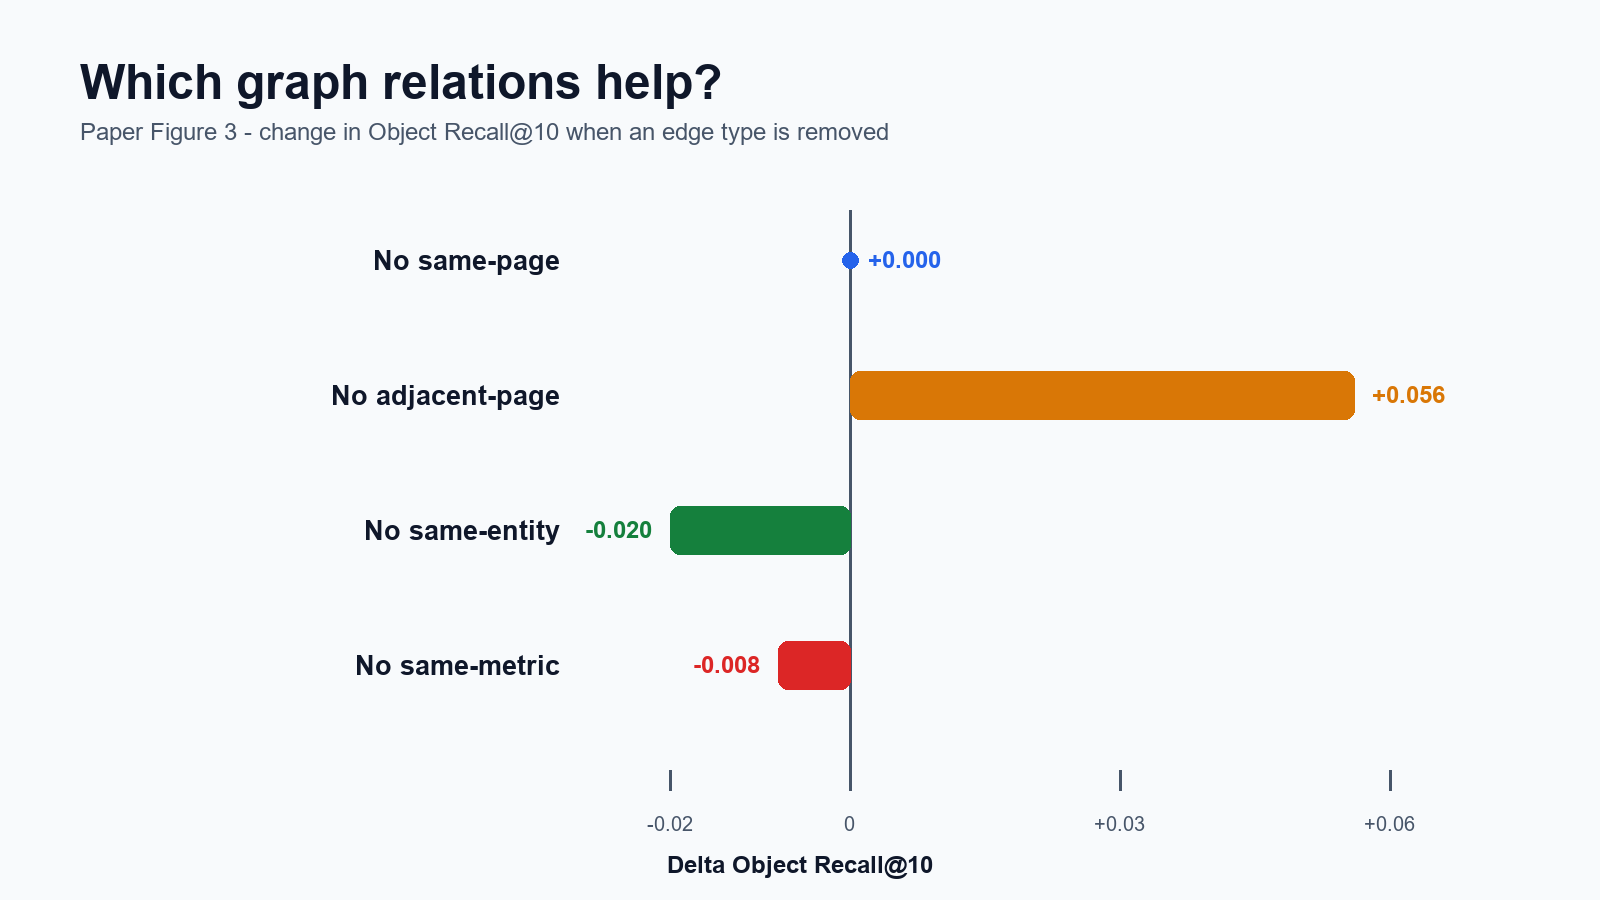
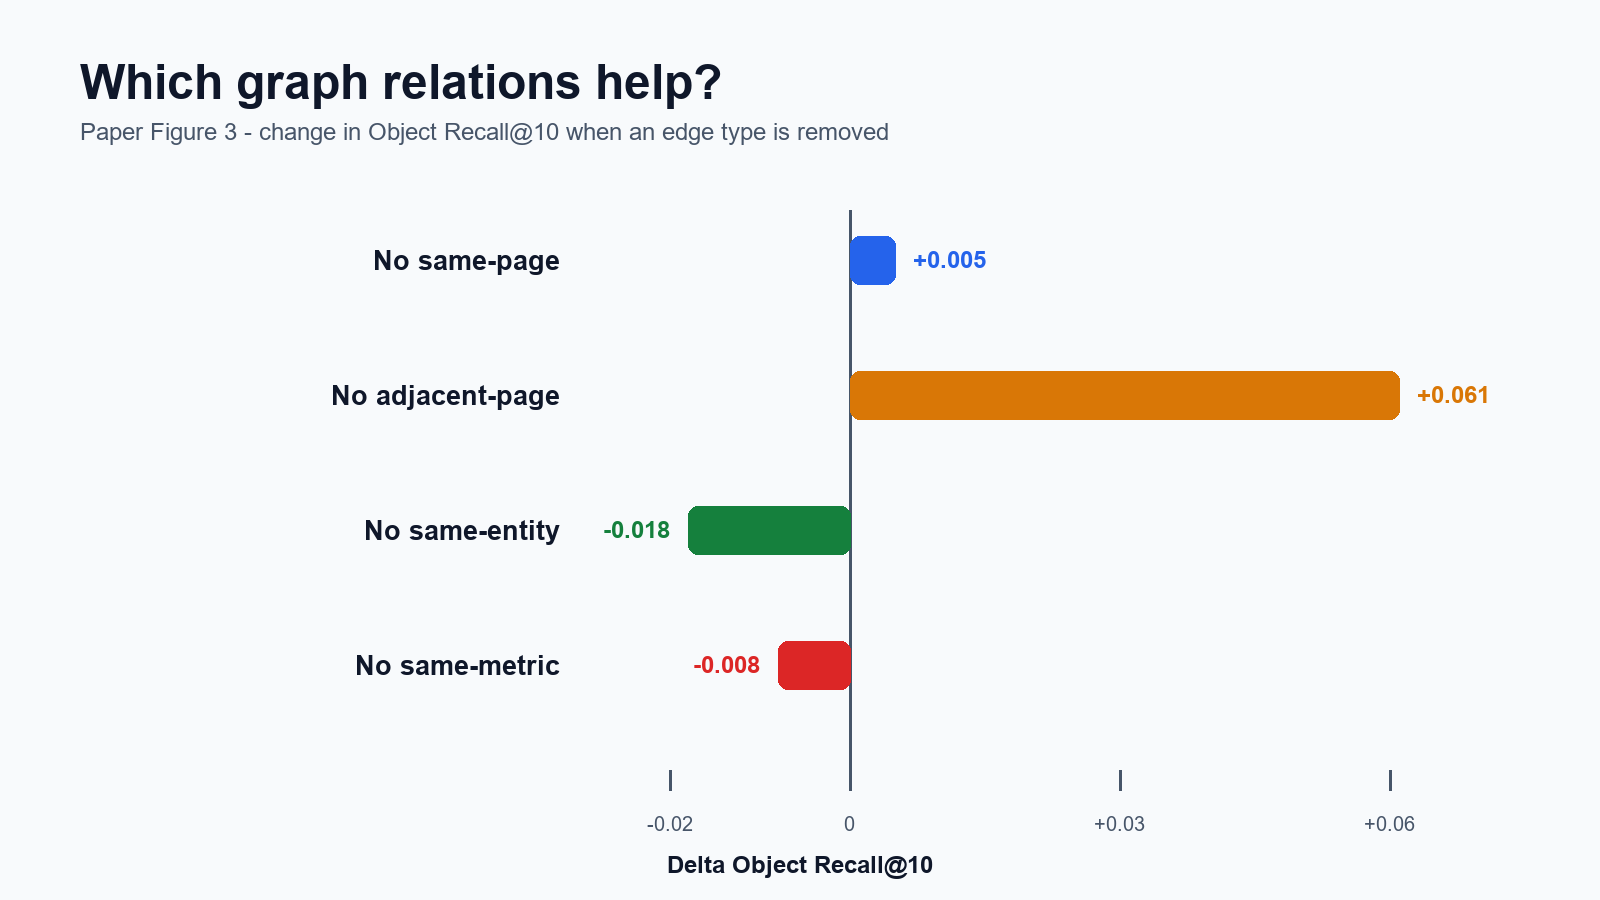
Sync revised GraphRAG results

Changed region(s): [[0.5312, 0.2489, 0.625, 0.3422], [0.8438, 0.4044, 0.9375, 0.4667], [0.375, 0.56, 0.4375, 0.6222]]

diff --git a/components/projects/structure-aware-graph-rag-research.tsx b/components/projects/structure-aware-graph-rag-research.tsx
@@ -8,9 +8,9 @@ const researchQuestions = [
 
 const fusionRows = [
   ["Hybrid E5 + rerank", ".673", ".838", ".908", ".730"],
-  ["Retained E5 + selected graph", ".673", ".858", ".905", ".737"],
+  ["Retained E5 + selected graph", ".671", ".856", ".903", ".735"],
   ["Retained E5 + graph paths", ".668", ".850", ".914", ".733"],
-  ["Retained E5 + graph + paths", ".670", ".859", ".917", ".736"],
+  ["Retained E5 + graph + paths", ".670", ".859", ".918", ".736"],
 ] as const;
 
 function SectionHeader({ eyebrow, title, description }: {
@@ -81,7 +81,7 @@ export default function StructureAwareGraphRagResearch() {
       </section>
 
       <section id="rq1">
-        <SectionHeader title="RQ1. Which Graph Connections Help?" description={<><p>The graph connects evidence through four types of relations: <strong>same-page, same-entity, same-metric, and adjacent-page</strong>. But adding more connections does not necessarily improve retrieval.</p><p className="mt-4">To understand which relations actually help, we remove one relation at a time while keeping the rest of the retrieval pipeline unchanged.</p></>} />
+        <SectionHeader title="RQ1. Which Graph Connections Help?" description={<><p>The full graph evaluates <strong>same-page, same-entity, same-metric, and adjacent-page</strong> relations. The selected graph used in downstream experiments excludes adjacent-page links.</p><p className="mt-4">To understand which relations actually help, we remove one relation at a time while keeping the rest of the retrieval pipeline unchanged.</p></>} />
         <PaperFigure src="/projects/graph-rag-evidence/paper-graph-schema.png" alt="Typed metadata evidence graph schema" height={1050} caption="The graph connects evidence based on document structure, shared entities, and financial metrics." />
         <div className="mt-8">
           <PaperFigure src="/projects/graph-rag-evidence/paper-edge-ablation.png" alt="Edge-type ablation for Object Recall at 10" height={900} caption="Positive values mean retrieval improves when a relation is removed." />
@@ -97,8 +97,8 @@ export default function StructureAwareGraphRagResearch() {
             <table className="w-full min-w-[480px] text-left text-sm">
               <thead className="bg-blue-700 text-white"><tr><th scope="col" className="px-5 py-4 font-semibold">Metric</th><th scope="col" className="px-5 py-4 text-right font-semibold">Full graph</th><th scope="col" className="px-5 py-4 text-right font-semibold">Without adjacent-page</th></tr></thead>
               <tbody className="divide-y">
-                <tr><th scope="row" className="px-5 py-4 font-medium">Object Recall@10</th><td className="px-5 py-4 text-right font-mono tabular-nums">71.3%</td><td className="px-5 py-4 text-right font-mono tabular-nums"><strong>84.0%</strong></td></tr>
-                <tr className="bg-muted/35"><th scope="row" className="px-5 py-4 font-medium">MRR</th><td className="px-5 py-4 text-right font-mono tabular-nums">0.644</td><td className="px-5 py-4 text-right font-mono tabular-nums"><strong>0.728</strong></td></tr>
+                <tr><th scope="row" className="px-5 py-4 font-medium">Object Recall@10</th><td className="px-5 py-4 text-right font-mono tabular-nums">70.0%</td><td className="px-5 py-4 text-right font-mono tabular-nums"><strong>84.7%</strong></td></tr>
+                <tr className="bg-muted/35"><th scope="row" className="px-5 py-4 font-medium">MRR</th><td className="px-5 py-4 text-right font-mono tabular-nums">0.633</td><td className="px-5 py-4 text-right font-mono tabular-nums"><strong>0.729</strong></td></tr>
               </tbody>
             </table>
           </div>
@@ -119,8 +119,7 @@ export default function StructureAwareGraphRagResearch() {
                     <td className="px-5 py-4">{row[0]}</td>
                     {row.slice(1).map((value, valueIndex) => {
                       const isBest = (index === 0 && valueIndex === 0)
-                        || (index === 1 && (valueIndex === 0 || valueIndex === 3))
-                        || (index === 3 && (valueIndex === 1 || valueIndex === 2));
+                        || (index === 3 && (valueIndex === 1 || valueIndex === 2 || valueIndex === 3));
                       return <td key={`${row[0]}-${valueIndex}`} className={`px-5 py-4 text-right font-mono tabular-nums ${isBest ? "font-bold" : ""}`}>{value}</td>;
                     })}
                   </tr>
@@ -129,7 +128,7 @@ export default function StructureAwareGraphRagResearch() {
             </table>
           </div>
         </div>
-        <p className="mt-6 leading-7 text-muted-foreground"><strong className="text-foreground">Selected-graph expansion provides most of the object-recovery gain</strong>, improving Object Recall@10 from <strong className="text-foreground">83.8% to 85.8%</strong>. Adding graph paths on top changes object recall very little (<strong className="text-foreground">85.8% → 85.9%</strong>), but increases Page Recall@10 from <strong className="text-foreground">90.5% to 91.7%</strong>.</p>
+        <p className="mt-6 leading-7 text-muted-foreground">Adding selected-graph candidates improves Object Recall@10 from 83.8% to 85.6% (<code>p=0.016</code>). Adding graph paths on top provides little additional object-recall gain, reaching 85.9% (<code>p=0.707</code>), but raises Page Recall@10 from 90.3% to 91.8% (<code>p=0.012</code>). These uncorrected results should be interpreted cautiously.</p>
         <EvidenceConclusion><strong>Key finding:</strong> Selected graph mainly helps recover missing evidence objects, while graph paths contribute more to <strong>page-level coverage</strong> than exact-object recovery.</EvidenceConclusion>
       </section>
 
@@ -160,7 +159,7 @@ export default function StructureAwareGraphRagResearch() {
                 <thead className="bg-blue-700 text-white"><tr><th scope="col" className="px-5 py-4 font-semibold">Retrieval result</th><th scope="col" className="px-5 py-4 text-right font-semibold">Hybrid E5</th><th scope="col" className="px-5 py-4 text-right font-semibold">E5 + Graph + Paths</th></tr></thead>
                 <tbody className="divide-y">
                   <tr><th scope="row" className="px-5 py-4 font-medium">Evidence object found</th><td className="px-5 py-4 text-right font-mono tabular-nums">41.1%</td><td className="px-5 py-4 text-right font-mono font-bold tabular-nums">50.0%</td></tr>
-                  <tr className="bg-muted/35"><th scope="row" className="px-5 py-4 font-medium">Evidence page found</th><td className="px-5 py-4 text-right font-mono tabular-nums">73.3%</td><td className="px-5 py-4 text-right font-mono font-bold tabular-nums">77.8%</td></tr>
+                  <tr className="bg-muted/35"><th scope="row" className="px-5 py-4 font-medium">Evidence page found</th><td className="px-5 py-4 text-right font-mono tabular-nums">73.3%</td><td className="px-5 py-4 text-right font-mono font-bold tabular-nums">78.9%</td></tr>
                 </tbody>
               </table>
             </div>

diff --git a/scripts/generate_graph_rag_figures.py b/scripts/generate_graph_rag_figures.py
@@ -122,7 +122,7 @@ def save_edge_ablation():
     d.text((80, 55), "Which graph relations help?", font=font(48, True), fill=NAVY)
     d.text((80, 118), "Paper Figure 3 - change in Object Recall@10 when an edge type is removed", font=font(24), fill=SLATE)
     labels = ["No same-page", "No adjacent-page", "No same-entity", "No same-metric"]
-    values = [0.000, 0.056, -0.020, -0.008]
+    values = [0.005, 0.061, -0.018, -0.008]
     colors = [BLUE, ORANGE, GREEN, RED]
     zero_x = 850
     scale = 9000
